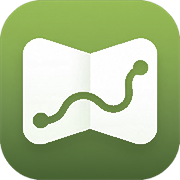
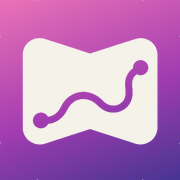
App: iconos nuevos y ajustes de estilo Aurora

diff --git a/index.html b/index.html
@@ -407,7 +407,7 @@ p.why{margin:0 0 14px;font-size:15.5px;line-height:1.6;color:var(--ink)}
 
 #trip{position:absolute;inset:0;display:flex;flex-direction:column;background:var(--aurora)}
 /* ===== Aurora: capa de componentes (cristal, degradados, brillo, movimiento suave) ===== */
-:root{--photo-acc:color-mix(in srgb,var(--g1),#fff 35%);--blur:blur(16px) saturate(140%)}
[1 lines of base64/hex data omitted]
 :root[data-theme="light"]{--photo-acc:color-mix(in srgb,var(--g1),#fff 55%)}
 /* cristal: botones redondos, chips, tarjetas y listas */
 .cb,.back,.dc,.nb,.tcard,.card,.stat,.rnote,.alerts li,.seg,.brief,.facts,.btn,.next,.drow,.dhero,.chips2 span,.tl .lk a,.tl .lk button,.hnb{background:var(--glass);border:1px solid var(--line);-webkit-backdrop-filter:var(--blur);backdrop-filter:var(--blur);box-shadow:inset 0 1px 0 var(--hi),0 6px 18px rgba(0,0,0,.14)}
@@ -458,7 +458,14 @@ p.why{margin:0 0 14px;font-size:15.5px;line-height:1.6;color:var(--ink)}
 @media (prefers-reduced-motion:reduce){*{animation:none!important}}
 /* icono de RawMaps: se pinta con la paleta (degradado que se oscurece hacia abajo + mapa en crema) */
 .logoic{position:relative;background:linear-gradient(160deg,color-mix(in srgb,var(--g1),#000 8%),color-mix(in srgb,var(--g2),#000 22%) 55%,color-mix(in srgb,var(--g3),#000 42%))}
[1 lines of base64/hex data omitted]
+.logoic::after{content:"";position:absolute;inset:0;background:#f5f2ea;-webkit-mask-image:var(--logo-mask);mask-image:var(--logo-mask);-webkit-mask-size:100% 100%;mask-size:100% 100%;-webkit-mask-repeat:no-repeat;mask-repeat:no-repeat}
+/* día: Ruta, Mapa y Volver en una sola fila, todos de cristal */
+.acts3{grid-template-columns:none;grid-auto-flow:column;grid-auto-columns:minmax(0,1fr)}
+.acts3 .btn,.acts3 .btn:only-child{grid-column:auto;flex-direction:column;gap:5px;height:auto;min-height:66px;padding:10px 6px;border-radius:20px;font-size:12.5px;line-height:1.2;text-align:center}
+.acts3 .btn svg{width:19px;height:19px;color:var(--sage)}
+/* degradados: sin costuras en el borde (el degradado cubre también el borde y sobra unos píxeles) */
+.feat .open,.btn.cream,.nb.nx,.go,.next .ar,.focus,.hcur,.dc[aria-pressed="true"],.seg button[aria-pressed="true"],.pill.sage,.nowtag,.logoic{background-origin:border-box;background-clip:border-box;background-repeat:no-repeat;background-size:calc(100% + 6px) calc(100% + 6px);background-position:center;border-color:transparent}
+.prog .fill,.hprog .fill{background-size:calc(100% + 4px) 100%;background-position:center;background-repeat:no-repeat}
 </style>
 </head>
 <body>
@@ -693,7 +700,15 @@ function renderPal(){ const light=document.documentElement.getAttribute('data-th
 $('palBtn').onclick=()=>{ renderPal(); tr($('palOv')); $('palOv').hidden=false };
 $('palOv').onclick=e=>{ if(e.target===$('palOv')) $('palOv').hidden=true };
 /* claro / oscuro */
-function syncTC(){try{$('tc').setAttribute('content',getComputedStyle(document.documentElement).getPropertyValue('--bg').trim())}catch(e){}}
+/* icono de la pestaña / escritorio: se pinta con la paleta actual */
+function paintIcon(){ try{ const cs=getComputedStyle(document.documentElement), gv=k=>cs.getPropertyValue(k).trim();
+  const hx=h=>{h=h.replace('#','');return [0,2,4].map(i=>parseInt(h.substr(i,2),16))}, dk=(c,f)=>'rgb('+c.map(v=>Math.round(v*(1-f))).join(',')+')';
+  const m=new Image(); m.onload=()=>{ const n=180,c=document.createElement('canvas'); c.width=c.height=n; const x=c.getContext('2d');
+    const g=x.createLinearGradient(n*.33,0,n*.67,n); g.addColorStop(0,dk(hx(gv('--g1')),.08)); g.addColorStop(.55,dk(hx(gv('--g2')),.22)); g.addColorStop(1,dk(hx(gv('--g3')),.42));
+    x.fillStyle=g; x.fillRect(0,0,n,n); x.drawImage(m,0,0,n,n); const u=c.toDataURL('image/png');
+    document.querySelectorAll('link[rel="icon"],link[rel="apple-touch-icon"]').forEach(l=>l.href=u) };
+  m.src=gv('--logo-mask').replace(/^url\(["']?/,'').replace(/["']?\)$/,'') }catch(e){} }
+function syncTC(){paintIcon();try{$('tc').setAttribute('content',getComputedStyle(document.documentElement).getPropertyValue('--bg').trim())}catch(e){}}
 function applyTheme(t){document.documentElement.setAttribute('data-theme',t); $('themeIc').setAttribute('href',t==='light'?'#i-moon':'#i-sun'); syncTC(); try{localStorage.setItem('rm-theme',t)}catch(e){}}
 $('themeBtn').onclick=()=>applyTheme(document.documentElement.getAttribute('data-theme')==='light'?'dark':'light');
 applyTheme(document.documentElement.getAttribute('data-theme')||'dark');
@@ -769,10 +784,10 @@ function renderDay(){
       <div class="chips2">${chips}</div>`}
       ${P.seq.length?`<div class="htl"><div class="hpr"><button class="hnb" type="button" id="hPrev" aria-label="Anterior">${ic('l')}</button><div class="hprog" id="hprog"><div class="ln"></div><div class="fill" id="hfill"></div><div class="dots" id="hdots"></div></div><button class="hnb" type="button" id="hNext" aria-label="Siguiente">${ic('r')}</button></div><button class="hcur" type="button" id="hcur"></button></div>`:''}
     </section>
-    <div class="acts2">
-      ${P.pts&&P.pts.length>1&&!X?`<a class="btn cream" href="${gmapsDir(P.pts)}" target="_blank" rel="noopener">${ic('go')}Ruta del día</a>`:''}
+    <div class="acts2 acts3">
+      ${P.pts&&P.pts.length>1&&!X?`<a class="btn" href="${gmapsDir(P.pts)}" target="_blank" rel="noopener">${ic('go')}Ruta del día</a>`:''}
       ${curMid()?`<button class="btn" type="button" id="dMap">${ic('exp')}Mapa</button>`:''}
-      ${stay(d)&&!X?`<a class="btn wide" href="${stayLink(stay(d))}" target="_blank" rel="noopener">${ic('home')}Volver al alojamiento</a>`:''}
+      ${stay(d)&&!X?`<a class="btn" href="${stayLink(stay(d))}" target="_blank" rel="noopener">${ic('home')}Volver al alojamiento</a>`:''}
     </div>
     ${al.length?`<ul class="alerts">${al.join('')}</ul>`:''}
     ${briefHtml(d,false)}
